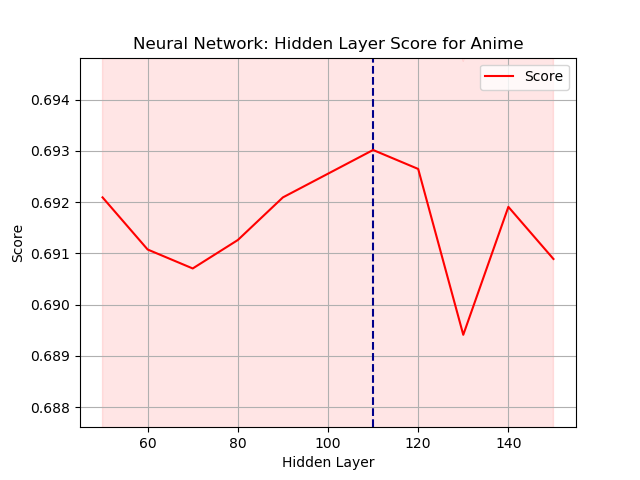
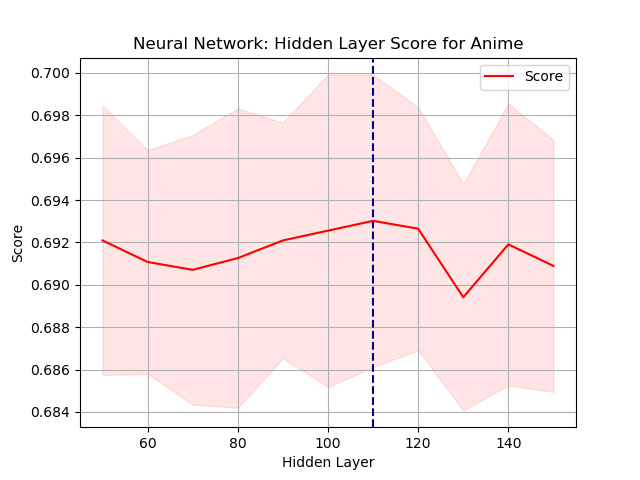
Committing Neural and SVM. Started on KNN

diff --git a/neural.py b/neural.py
@@ -21,11 +21,11 @@ train_anime_df = pd.read_csv(train_anime_loc)
 train_anime_X = train_anime_df.iloc[:,:-1]
 train_anime_Y = train_anime_df.iloc[:,-1]
 
-#title = "Neural Network: Learning Curve for Anime"
-#cv = ShuffleSplit(n_splits=10, test_size=0.2, random_state=0)
-#estimator = MLPClassifier(activation='logistic',alpha=0.0001,beta_2=0.7,max_iter=500,random_state=0)
-#image_loc = os.path.join(image_folder, 'Neural_learning_curve_anime.png')
-#plot_learning_curve(estimator, title, train_anime_X, train_anime_Y, ylim=(0.65, 0.75), cv=cv, n_jobs=4, image_loc=image_loc)
+title = "Neural Network: Learning Curve for Anime"
+cv = ShuffleSplit(n_splits=10, test_size=0.2, random_state=0)
+estimator = MLPClassifier(activation='logistic',alpha=0.0001,beta_2=0.7,max_iter=500,random_state=0)
+image_loc = os.path.join(image_folder, 'Neural_learning_curve_anime.png')
+plot_learning_curve(estimator, title, train_anime_X, train_anime_Y, ylim=(0.65, 0.75), cv=cv, n_jobs=4, image_loc=image_loc)
 
 # Use Gridsearch to analyse the hidden_layer_sizes of Neural
 model_X = []
@@ -44,32 +44,32 @@ best_idx = ((np.argmax(model_Y) + 1) * 10) + 40
 image_loc = os.path.join(image_folder, 'Neural_hidden_layer_model_complexity_anime.png')
 plot_data(X=model_X, Y=model_Y, STD=model_STD, image_loc=image_loc, title='Neural Network: Hidden Layer Score for Anime', x_label='Hidden Layer', x_best=best_idx)
 
-## Process Heart
-#print("Processing Heart...")
-#train_heart_loc = os.path.join(folder, "train_"+data_sets[1])
-#train_heart_df = pd.read_csv(train_heart_loc)
-#train_heart_X = train_heart_df.iloc[:,:-1]
-#train_heart_Y = train_heart_df.iloc[:,-1]
-#
-#title = "Neural Network: Learning Curve for Heart"
-#cv = ShuffleSplit(n_splits=10, test_size=0.1, random_state=0)
-#estimator = MLPClassifier(activation='logistic', alpha=0.01, beta_1=0.7, max_iter=1000, random_state=0)
-#image_loc = os.path.join(image_folder, 'Neural_learning_curve_heart.png')
-#plot_learning_curve(estimator, title, train_heart_X, train_heart_Y, ylim=(0.45, 1.01), cv=cv, n_jobs=4, image_loc=image_loc)
-#
-## Use Gridsearch to analyse the hidden_layer_sizes of Neural
-#model_X = []
-#model_Y = []
-#model_STD = []
-#for i in range(1, 10):
-#   param = i * 10
-#   tree_para = {'hidden_layer_sizes':[(param,)], 'activation':['logistic'], 'alpha':[0.0001], 'beta_1':[0.7], 'random_state':[0], 'max_iter': [1000]}
-#   dectree = GridSearchCV(MLPClassifier(), tree_para, cv=5)
-#   dectree.fit(train_heart_X, train_heart_Y)
-#   model_X.append(param)
-#   model_Y.append(dectree.best_score_)
-#   model_STD.append(np.average(dectree.cv_results_['std_test_score']))
-#
-#best_idx = (np.argmax(model_Y) + 1) * 10
-#image_loc = os.path.join(image_folder, 'Neural_hidden_layer_model_complexity_heart.png')
-#plot_data(X=model_X, Y=model_Y, STD=model_STD, image_loc=image_loc, title='Neural Network: Hidden Layer Score for Heart', x_label='Hidden Layer', x_best=best_idx)
+# Process Heart
+print("Processing Heart...")
+train_heart_loc = os.path.join(folder, "train_"+data_sets[1])
+train_heart_df = pd.read_csv(train_heart_loc)
+train_heart_X = train_heart_df.iloc[:,:-1]
+train_heart_Y = train_heart_df.iloc[:,-1]
+
+title = "Neural Network: Learning Curve for Heart"
+cv = ShuffleSplit(n_splits=10, test_size=0.1, random_state=0)
+estimator = MLPClassifier(activation='logistic', alpha=0.01, beta_1=0.7, max_iter=1000, random_state=0)
+image_loc = os.path.join(image_folder, 'Neural_learning_curve_heart.png')
+plot_learning_curve(estimator, title, train_heart_X, train_heart_Y, ylim=(0.65, 1.01), cv=cv, n_jobs=4, image_loc=image_loc)
+
+# Use Gridsearch to analyse the hidden_layer_sizes of Neural
+model_X = []
+model_Y = []
+model_STD = []
+for i in range(1, 10):
+   param = i * 10
+   tree_para = {'hidden_layer_sizes':[(param,)], 'activation':['logistic'], 'alpha':[0.0001], 'beta_1':[0.7], 'random_state':[0], 'max_iter': [1000]}
+   dectree = GridSearchCV(MLPClassifier(), tree_para, cv=5)
+   dectree.fit(train_heart_X, train_heart_Y)
+   model_X.append(param)
+   model_Y.append(dectree.best_score_)
+   model_STD.append(np.average(dectree.cv_results_['std_test_score']))
+
+best_idx = (np.argmax(model_Y) + 1) * 10
+image_loc = os.path.join(image_folder, 'Neural_hidden_layer_model_complexity_heart.png')
+plot_data(X=model_X, Y=model_Y, STD=model_STD, image_loc=image_loc, title='Neural Network: Hidden Layer Score for Heart', x_label='Hidden Layer', x_best=best_idx)

diff --git a/boosting.py b/boosting.py
@@ -14,34 +14,34 @@ folder = "data_final"
 image_folder = "images"
 data_sets = ["anime.csv", "heart.csv"]
 
-# Process Anime
-print("Processing Anime...")
-train_anime_loc = os.path.join(folder, "train_"+data_sets[0])
-train_anime_df = pd.read_csv(train_anime_loc)
-train_anime_X = train_anime_df.iloc[:,:-1]
-train_anime_Y = train_anime_df.iloc[:,-1]
-
-title = "Boosting: Learning Curve for Anime"
-cv = ShuffleSplit(n_splits=100, test_size=0.2, random_state=0)
-estimator = GradientBoostingClassifier(max_depth=5, min_samples_leaf=3, random_state=0, n_estimators=150)
-image_loc = os.path.join(image_folder, 'BoostDT_learning_curve_anime.png')
-plot_learning_curve(estimator, title, train_anime_X, train_anime_Y, ylim=(0.6, 0.9), cv=cv, n_jobs=4, image_loc=image_loc)
-
-# Use Gridsearch to analyse the max_depth of DT
-model_X = []
-model_Y = []
-model_STD = []
-for i in range(1, 10):
-   tree_para = {'max_depth':[i], 'min_samples_leaf':[3], 'n_estimators': [150], 'random_state':[0]}
-   dectree = GridSearchCV(GradientBoostingClassifier(), tree_para, cv=5)
-   dectree.fit(train_anime_X, train_anime_Y)
-   model_X.append(i)
-   model_Y.append(dectree.best_score_)
-   model_STD.append(np.average(dectree.cv_results_['std_test_score']))
-
-best_idx = np.argmax(model_Y) + 1
-image_loc = os.path.join(image_folder, 'BoostDT_model_complexity_anime.png')
-plot_data(X=model_X, Y=model_Y, STD=model_STD, image_loc=image_loc, title='Boosting: Max Depth Score for Anime', x_label='Max Depth', x_best=best_idx)
+## Process Anime
+#print("Processing Anime...")
+#train_anime_loc = os.path.join(folder, "train_"+data_sets[0])
+#train_anime_df = pd.read_csv(train_anime_loc)
+#train_anime_X = train_anime_df.iloc[:,:-1]
+#train_anime_Y = train_anime_df.iloc[:,-1]
+#
+#title = "Boosting: Learning Curve for Anime"
+#cv = ShuffleSplit(n_splits=20, test_size=0.2, random_state=0)
+#estimator = GradientBoostingClassifier(max_depth=5, min_samples_leaf=3, random_state=0, n_estimators=150)
+#image_loc = os.path.join(image_folder, 'BoostDT_learning_curve_anime.png')
+#plot_learning_curve(estimator, title, train_anime_X, train_anime_Y, cv=cv, n_jobs=4, image_loc=image_loc)
+#
+## Use Gridsearch to analyse the max_depth of DT
+#model_X = []
+#model_Y = []
+#model_STD = []
+#for i in range(1, 10):
+#   tree_para = {'max_depth':[i], 'min_samples_leaf':[3], 'n_estimators': [150], 'random_state':[0]}
+#   dectree = GridSearchCV(GradientBoostingClassifier(), tree_para, cv=5)
+#   dectree.fit(train_anime_X, train_anime_Y)
+#   model_X.append(i)
+#   model_Y.append(dectree.best_score_)
+#   model_STD.append(np.average(dectree.cv_results_['std_test_score']))
+#
+#best_idx = np.argmax(model_Y) + 1
+#image_loc = os.path.join(image_folder, 'BoostDT_model_complexity_anime.png')
+#plot_data(X=model_X, Y=model_Y, STD=model_STD, image_loc=image_loc, title='Boosting: Max Depth Score for Anime', x_label='Max Depth', x_best=best_idx)
 
 # Process Heart
 print("Processing Heart...")
@@ -51,10 +51,10 @@ train_heart_X = train_heart_df.iloc[:,:-1]
 train_heart_Y = train_heart_df.iloc[:,-1]
 
 title = "Boosting: Learning Curve for Heart"
-cv = ShuffleSplit(n_splits=100, test_size=0.1, random_state=0)
+cv = ShuffleSplit(n_splits=20, test_size=0.1, random_state=0)
 estimator = GradientBoostingClassifier(max_depth=1, min_samples_leaf=1, n_estimators=100)
 image_loc = os.path.join(image_folder, 'BoostDT_learning_curve_heart.png')
-plot_learning_curve(estimator, title, train_heart_X, train_heart_Y, ylim=(0.55, 1.01), cv=cv, n_jobs=4, image_loc=image_loc)
+plot_learning_curve(estimator, title, train_heart_X, train_heart_Y, cv=cv, n_jobs=4, image_loc=image_loc)
 
 # Use Gridsearch to analyse the max_depth of DT
 model_X = []
@@ -70,4 +70,4 @@ for i in range(1, 10):
 
 best_idx = np.argmax(model_Y) + 1
 image_loc = os.path.join(image_folder, 'BoostDT_model_complexity_heart.png')
-plot_data(X=model_X, Y=model_Y, STD=model_STD, image_loc=image_loc, title='Decision Tree: Max Depth Score for Heart', x_label='Max Depth', x_best=best_idx)
+plot_data(X=model_X, Y=model_Y, STD=model_STD, image_loc=image_loc, title='Boosting: Max Depth Score for Heart', x_label='Max Depth', x_best=best_idx)

diff --git a/svm.py b/svm.py
@@ -1,0 +1,75 @@
+
+import os
+import numpy as np
+import pandas as pd
+import matplotlib.pyplot as plt
+from sklearn.svm import SVC
+from sklearn.model_selection import ShuffleSplit
+from sklearn.model_selection import GridSearchCV
+from plot_learning_curve import plot_learning_curve
+from plot_data import plot_data
+
+ # This file moves the files along their required processes
+folder = "data_final"
+image_folder = "images"
+data_sets = ["anime.csv", "heart.csv"]
+
+# Process Anime
+print("Processing Anime...")
+train_anime_loc = os.path.join(folder, "train_"+data_sets[0])
+train_anime_df = pd.read_csv(train_anime_loc)
+train_anime_X = train_anime_df.iloc[:,:-1]
+train_anime_Y = train_anime_df.iloc[:,-1]
+
+#title = "Support Vector Machine: Learning Curve for Anime"
+#cv = ShuffleSplit(n_splits=20, test_size=0.2, random_state=0)
+#estimator = SVC(kernel='rbf',degree=2,gamma='scale',random_state=0)
+#image_loc = os.path.join(image_folder, 'SVM_learning_curve_anime.png')
+#plot_learning_curve(estimator, title, train_anime_X, train_anime_Y, ylim=(0.6, 0.9), cv=cv, n_jobs=4, image_loc=image_loc)
+#
+# Use Gridsearch to analyse the hidden_layer_sizes of Neural
+model_X = []
+model_Y = []
+model_STD = []
+for i in range(1,10):
+   param = i * 0.25
+   tree_para = {'C':[param],'kernel': ['rbf'],'degree':[2], 'random_state':[0]}
+   dectree = GridSearchCV(SVC(), tree_para, cv=3)
+   dectree.fit(train_anime_X, train_anime_Y)
+   model_X.append(param)
+   model_Y.append(dectree.best_score_)
+   model_STD.append(np.average(dectree.cv_results_['std_test_score']))
+
+best_idx = (np.argmax(model_Y) + 1) * 0.25
+image_loc = os.path.join(image_folder, 'SVM_C_model_complexity_anime.png')
+plot_data(X=model_X, Y=model_Y, STD=model_STD, image_loc=image_loc, title='Support Vector Machine: C Score for Anime', x_label='C', x_best=best_idx)
+
+## Process Heart
+#print("Processing Heart...")
+#train_heart_loc = os.path.join(folder, "train_"+data_sets[1])
+#train_heart_df = pd.read_csv(train_heart_loc)
+#train_heart_X = train_heart_df.iloc[:,:-1]
+#train_heart_Y = train_heart_df.iloc[:,-1]
+#
+#title = "Neural Network: Learning Curve for Heart"
+#cv = ShuffleSplit(n_splits=20, test_size=0.1, random_state=0)
+#estimator = SVC(C=3.,kernel='rbf',degree=2,gamma='scale',random_state=0)
+#image_loc = os.path.join(image_folder, 'SVM_learning_curve_heart.png')
+#plot_learning_curve(estimator, title, train_heart_X, train_heart_Y, cv=cv, n_jobs=4, image_loc=image_loc)
+#
+## Use Gridsearch to analyse the hidden_layer_sizes of Neural
+#model_X = []
+#model_Y = []
+#model_STD = []
+#for i in range(1,20):
+#   param = i * 0.25
+#   tree_para = {'C':[param],'kernel': ['rbf'],'degree':[2], 'random_state':[0]}
+#   dectree = GridSearchCV(SVC(), tree_para, cv=5)
+#   dectree.fit(train_heart_X, train_heart_Y)
+#   model_X.append(param)
+#   model_Y.append(dectree.best_score_)
+#   model_STD.append(np.average(dectree.cv_results_['std_test_score']))
+#
+#best_idx = (np.argmax(model_Y) + 1) * 0.25
+#image_loc = os.path.join(image_folder, 'SVM_C_model_complexity_heart.png')
+#plot_data(X=model_X, Y=model_Y, STD=model_STD, image_loc=image_loc, title='Support Vector Machine: C Score for Heart', x_label='C', x_best=best_idx)

diff --git a/knn_GS.py b/knn_GS.py
@@ -1,0 +1,63 @@
+
+from sklearn.neighbors import KNeighborsClassifier
+from sklearn.model_selection import GridSearchCV
+import pandas as pd
+import os
+import numpy as np
+
+print("Begining DecissionTree GS process.")
+
+# This file moves the files along their required processes
+folder = "data_final"
+data_sets = ["anime.csv", "heart.csv"]
+
+## Process Anime
+#print("Processing Anime...")
+#train_anime_loc = os.path.join(folder, "train_"+data_sets[0])
+#train_anime_df = pd.read_csv(train_anime_loc)
+#test_anime_loc = os.path.join(folder, "test_"+data_sets[0])
+#test_anime_df = pd.read_csv(test_anime_loc)
+#
+## Features are everything but the last column
+#train_anime_X = train_anime_df.iloc[:,:-1]
+#test_anime_X = test_anime_df.iloc[:,:-1]
+#
+##Label is the last column
+#train_anime_Y = train_anime_df.iloc[:,-1]
+#test_anime_Y = test_anime_df.iloc[:,-1]
+#
+## Train Decission Tree
+#tree_para = {'n_neighbors':[3,5,7,9,11,13],'weights':['uniform', 'distance'], 'algorithm':['ball_tree', 'kd_tree', 'brute', 'auto']}
+#dectree_anime = GridSearchCV(KNeighborsClassifier(), tree_para, cv=5)
+#dectree_anime.fit(train_anime_X, train_anime_Y)
+#
+#score = dectree_anime.score(test_anime_X, test_anime_Y)
+#print("Original GridSearch Anime Test Score: " + str(score))
+#print("Original Gridsearch Anime Params: " + str(dectree_anime.best_params_))
+##Original Gridsearch Anime Params: {'algorithm': 'ball_tree', 'n_neighbors': 11, 'weights': 'distance'}
+
+
+# Process Heart
+print("Processing Heart...")
+train_heart_loc = os.path.join(folder, "train_"+data_sets[1])
+train_heart_df = pd.read_csv(train_heart_loc)
+test_heart_loc = os.path.join(folder, "test_"+data_sets[1])
+test_heart_df = pd.read_csv(test_heart_loc)
+
+# Features are everything but the last column
+train_heart_X = train_heart_df.iloc[:,:-1]
+test_anime_X = test_heart_df.iloc[:,:-1]
+
+#Label is the last column
+train_heart_Y = train_heart_df.iloc[:,-1]
+test_heart_Y = test_heart_df.iloc[:,-1]
+
+# Train Decission Tree
+tree_para = {'n_neighbors':[3,5,7,9,11,13,15],'weights':['uniform', 'distance'], 'algorithm':['ball_tree', 'kd_tree', 'brute', 'auto']}
+dectree_heart = GridSearchCV(KNeighborsClassifier(), tree_para, cv=5)
+dectree_heart.fit(train_heart_X, train_heart_Y)
+
+score = dectree_heart.score(test_anime_X, test_heart_Y)
+print("Original GridSearch Heart Test Score: " + str(score))
+print("Original Gridsearch Heart Params: " + str(dectree_heart.best_params_))
+#Original Gridsearch Heart Params: {'algorithm': 'ball_tree', 'n_neighbors': 15, 'weights': 'uniform'}

diff --git a/svm_GS.py b/svm_GS.py
@@ -1,0 +1,63 @@
+
+
+from sklearn.svm import SVC
+from sklearn.model_selection import GridSearchCV
+import pandas as pd
+import os
+import numpy as np
+
+print("Begining SVM GS process.")
+
+# This file moves the files along their required processes
+folder = "data_final"
+data_sets = ["anime.csv", "heart.csv"]
+
+# Process Anime
+print("Processing Anime...")
+train_anime_loc = os.path.join(folder, "train_"+data_sets[0])
+train_anime_df = pd.read_csv(train_anime_loc)
+test_anime_loc = os.path.join(folder, "test_"+data_sets[0])
+test_anime_df = pd.read_csv(test_anime_loc)
+
+# Features are everything but the last column
+train_anime_X = train_anime_df.iloc[:,:-1]
+test_anime_X = test_anime_df.iloc[:,:-1]
+
+#Label is the last column
+train_anime_Y = train_anime_df.iloc[:,-1]
+test_anime_Y = test_anime_df.iloc[:,-1]
+
+# Train Decission Tree
+tree_para = {'degree':[3], 'random_state':[0]}
+dectree_anime = GridSearchCV(SVC(), tree_para, cv=5)
+dectree_anime.fit(train_anime_X, train_anime_Y)
+
+score = dectree_anime.score(test_anime_X, test_anime_Y)
+print("Original GridSearch Anime Test Score: " + str(score))
+print("Original Gridsearch Anime Params: " + str(dectree_anime.best_params_))
+#Original Gridsearch Anime Params: {'degree': 2, 'gamma': 'scale', 'random_state': 0, 'shrinking': True}
+
+## Process Heart
+#print("Processing Heart...")
+#train_heart_loc = os.path.join(folder, "train_"+data_sets[1])
+#train_heart_df = pd.read_csv(train_heart_loc)
+#test_heart_loc = os.path.join(folder, "test_"+data_sets[1])
+#test_heart_df = pd.read_csv(test_heart_loc)
+#
+## Features are everything but the last column
+#train_heart_X = train_heart_df.iloc[:,:-1]
+#test_anime_X = test_heart_df.iloc[:,:-1]
+#
+##Label is the last column
+#train_heart_Y = train_heart_df.iloc[:,-1]
+#test_heart_Y = test_heart_df.iloc[:,-1]
+#
+## Train Decission Tree
+#tree_para = {'degree':[2,3,4,5,6], 'gamma':['scale', 'auto'], 'shrinking':[True, False], 'random_state':[0]}
+#dectree_heart = GridSearchCV(SVC(), tree_para, cv=5)
+#dectree_heart.fit(train_heart_X, train_heart_Y)
+#
+#score = dectree_heart.score(test_anime_X, test_heart_Y)
+#print("Original GridSearch Heart Test Score: " + str(score))
+#print("Original Gridsearch Heart Params: " + str(dectree_heart.best_params_))
+##Original Gridsearch Heart Params: {'activation': 'logistic', 'alpha': 0.01, 'beta_1': 0.7, 'max_iter': 500, 'random_state': 0}

diff --git a/plot_data.py b/plot_data.py
@@ -10,7 +10,8 @@ def plot_data(X, Y, STD = None, image_loc = 'plot.png', title = '', x_label ='',
    diff_Y = max_Y - min_Y
    buffer_Y = diff_Y * 0.5
 
-   plt.ylim(min_Y-buffer_Y, max_Y+buffer_Y)
+   #if buffer_Y > 0.01:
+   #   plt.ylim(min_Y-buffer_Y, max_Y+buffer_Y)
    #plt.ylim(0.5, 1.01)
    plt.title(title)
    plt.ylabel('Score')
